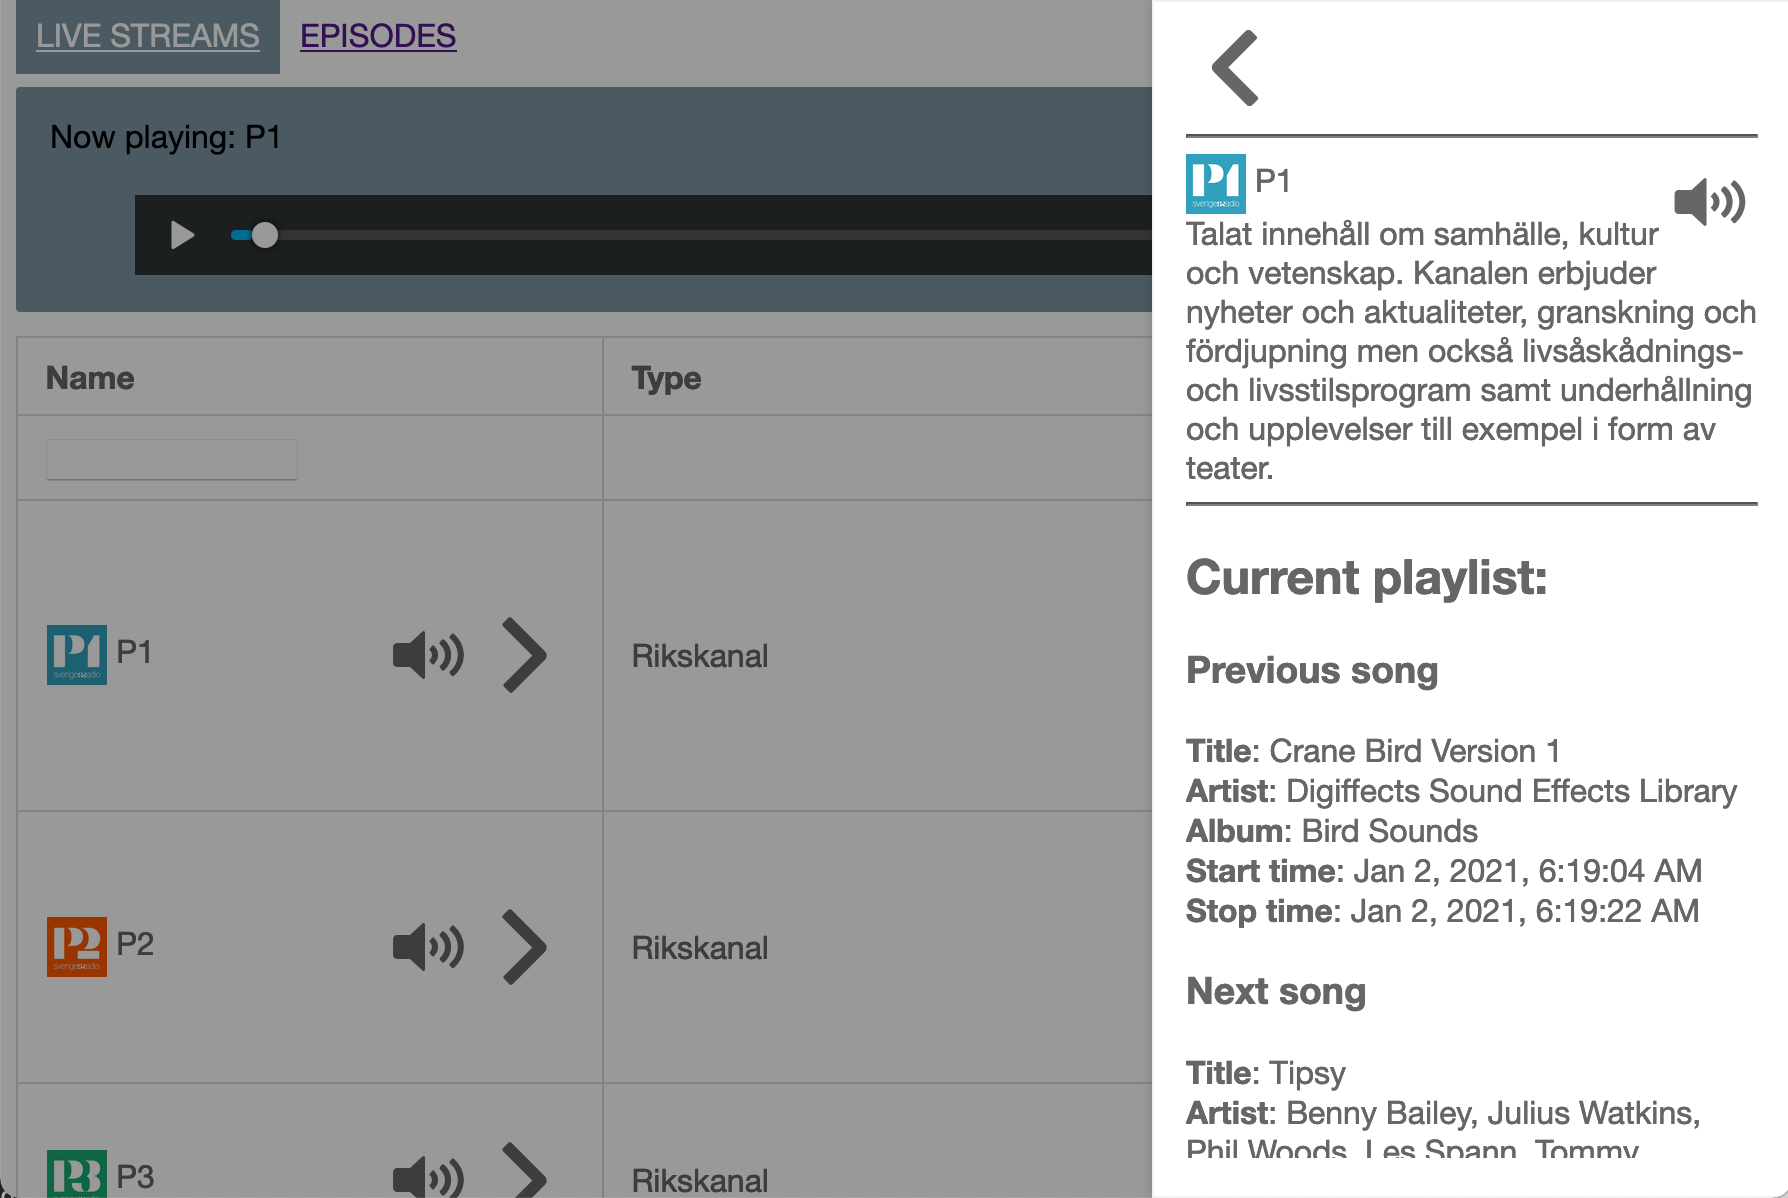
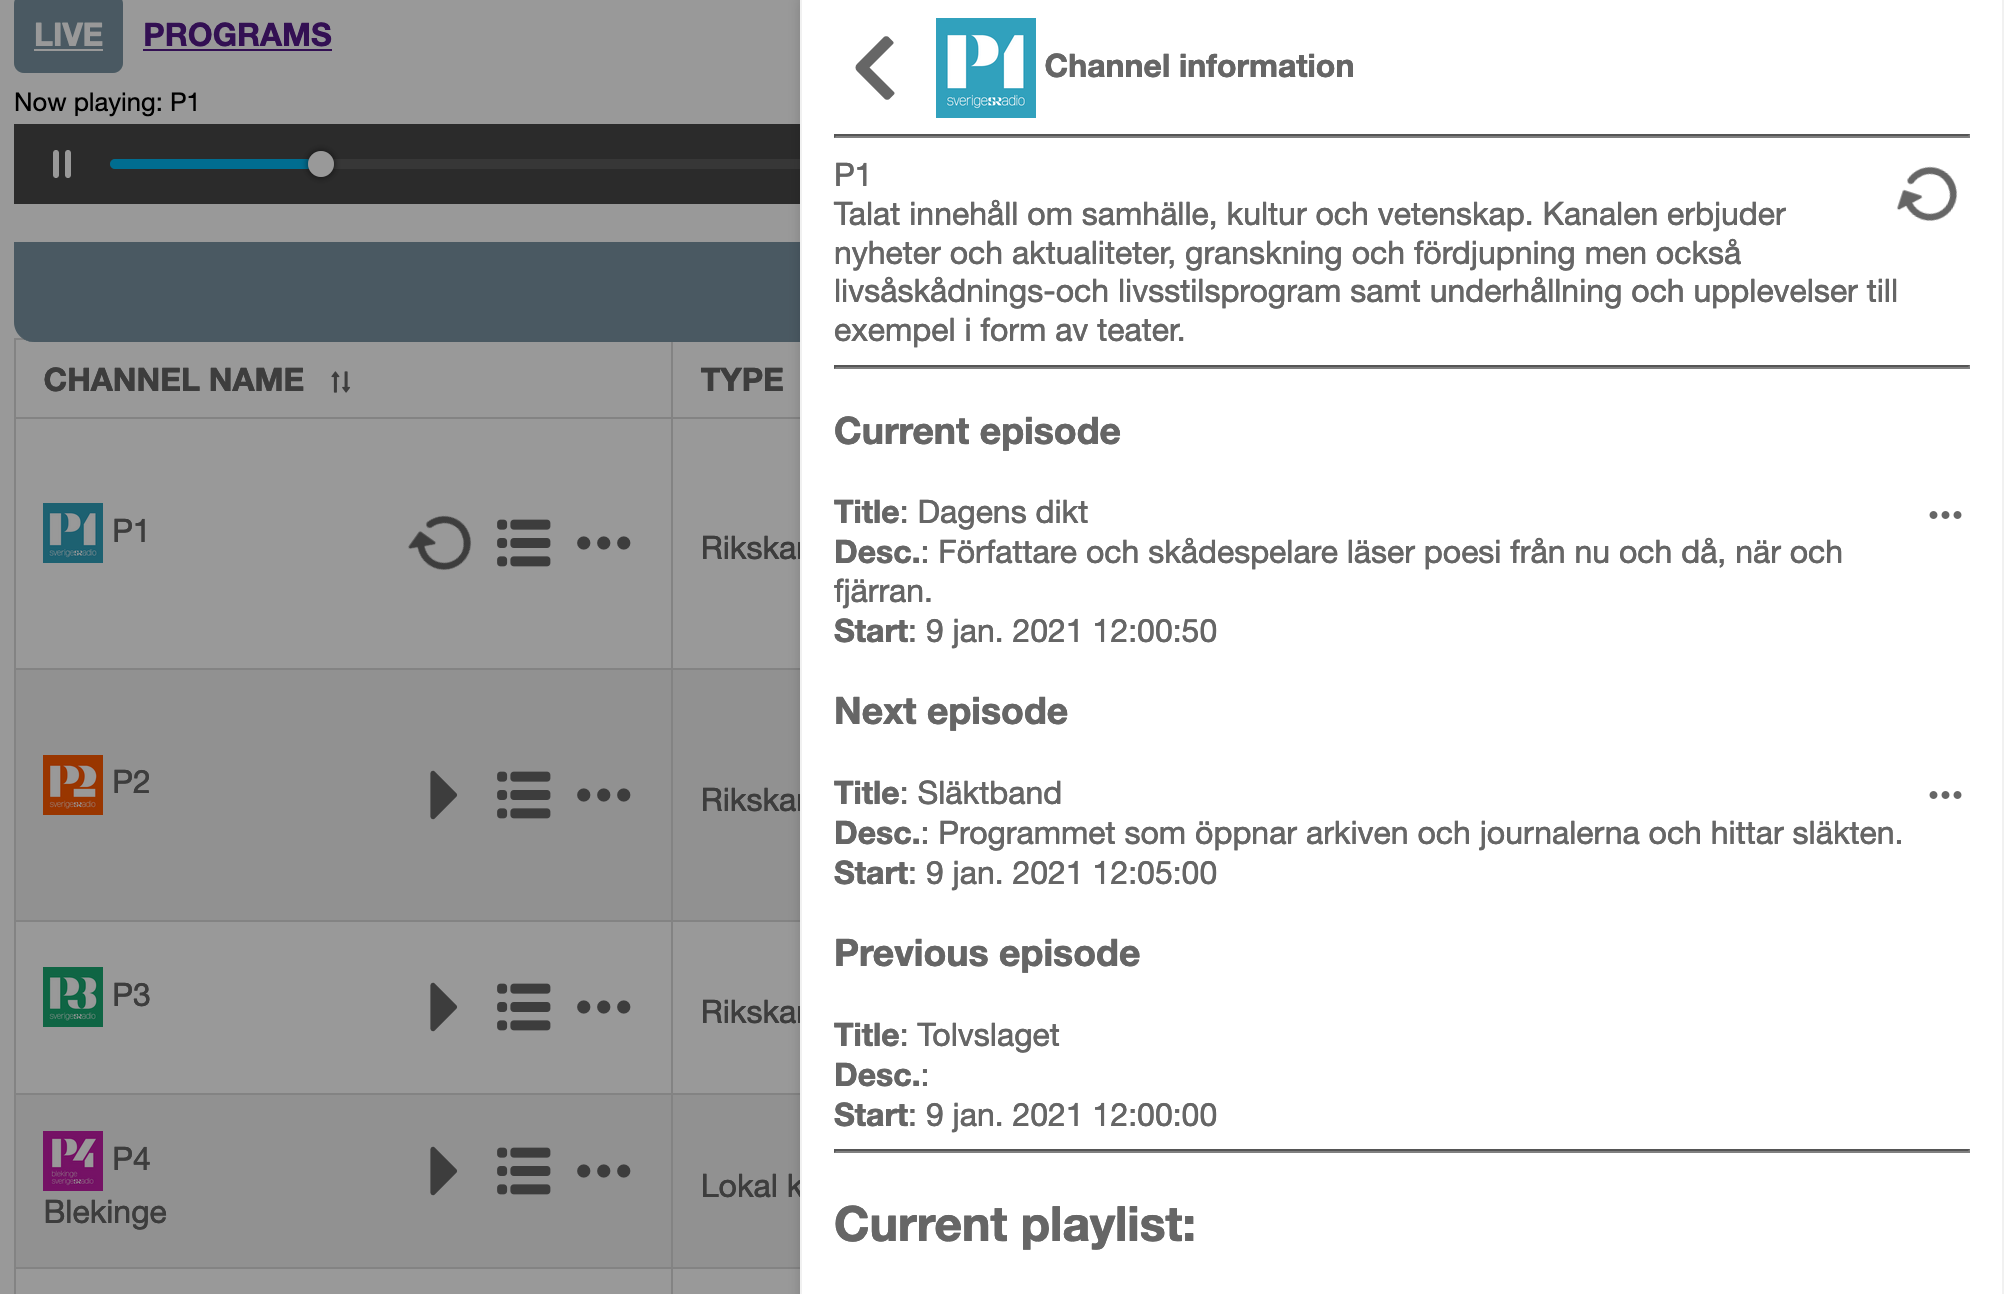
Styling + updated screenshots and readme

diff --git a/src/app/components/channels/channels-list.component.html b/src/app/components/channels/channels-list.component.html
@@ -32,11 +32,11 @@
             <tr>
                 <td>
                     <div class="p-grid">
-                        <div class="p-col-4">
+                        <div class="p-col-5">
                             <img src={{channel.image}} width="30" style="vertical-align:middle" />
                             {{channel.name}}
                         </div>
-                        <div class="p-col-8" style="float:right">
+                        <div class="p-col-7" style="float:right">
                             <div class="clickable" (click)="onOpenDetails(channel)"><i
                                     class="pi pi-ellipsis-h details-button"></i>
                             </div>

diff --git a/src/app/components/channels/channel-schedule.component.html b/src/app/components/channels/channel-schedule.component.html
@@ -2,7 +2,7 @@
     [showCloseIcon]="false">
     <div *ngIf="channel" class="details-header-text">
         <i (click)="close()" class="pi pi-chevron-left close-button clickable"></i>
-        <img src={{channel.image}} width="30" style="vertical-align:middle" /> {{'ProgramScheduleForToday' | translate}}
+        <img src={{channel.image}} width="50" style="vertical-align:middle" /> {{'ProgramScheduleForToday' | translate}}
     </div>
     <hr>
     <p-table [value]="scheduledEpisodes" [responsive]="true">

diff --git a/src/app/components/programs/program-episodes.component.html b/src/app/components/programs/program-episodes.component.html
@@ -3,7 +3,7 @@
 
     <div class="details-header-text">
         <i (click)="close()" class="pi pi-chevron-left close-button clickable"></i>
-        <img src={{program.programimage}} width="30" style="vertical-align:middle" /> {{program.name}}: {{'Episodes' |
+        <img src={{program.programimage}} width="50" style="vertical-align:middle" /> {{program.name}}: {{'Episodes' |
         translate}}
     </div>
     <hr>

diff --git a/src/app/components/channels/channel-details.component.html b/src/app/components/channels/channel-details.component.html
@@ -3,7 +3,7 @@
 
     <div class="details-header-text">
         <i (click)="close()" class="pi pi-chevron-left close-button clickable"></i>
-        <img src={{channel.image}} width="30" style="vertical-align:middle" /> {{'ChannelDetails' | translate}}
+        <img src={{channel.image}} width="50" style="vertical-align:middle" /> {{'ChannelDetails' | translate}}
     </div>
     <hr>
     {{channel.name}}

diff --git a/README.md b/README.md
@@ -16,15 +16,20 @@ yarn install
 yarn start
 
 ```
-
 # Main functionality
 
 Browse and filter channels  
-Play a channel live stream  
+Play a channel's live stream  
 View current playlist for a live stream  
+View today's schedule for a channel  
+Browse and filter programs  
 Browse episodes per program  
 Play an episode  
-View the songlist for the episode
+View the songlist for the episode  
+
+# Blog
+
+https://thingsmatic.com/2021/01/09/audio-streaming-with-angular-and-primeng/
 
 # Screenshots
 
